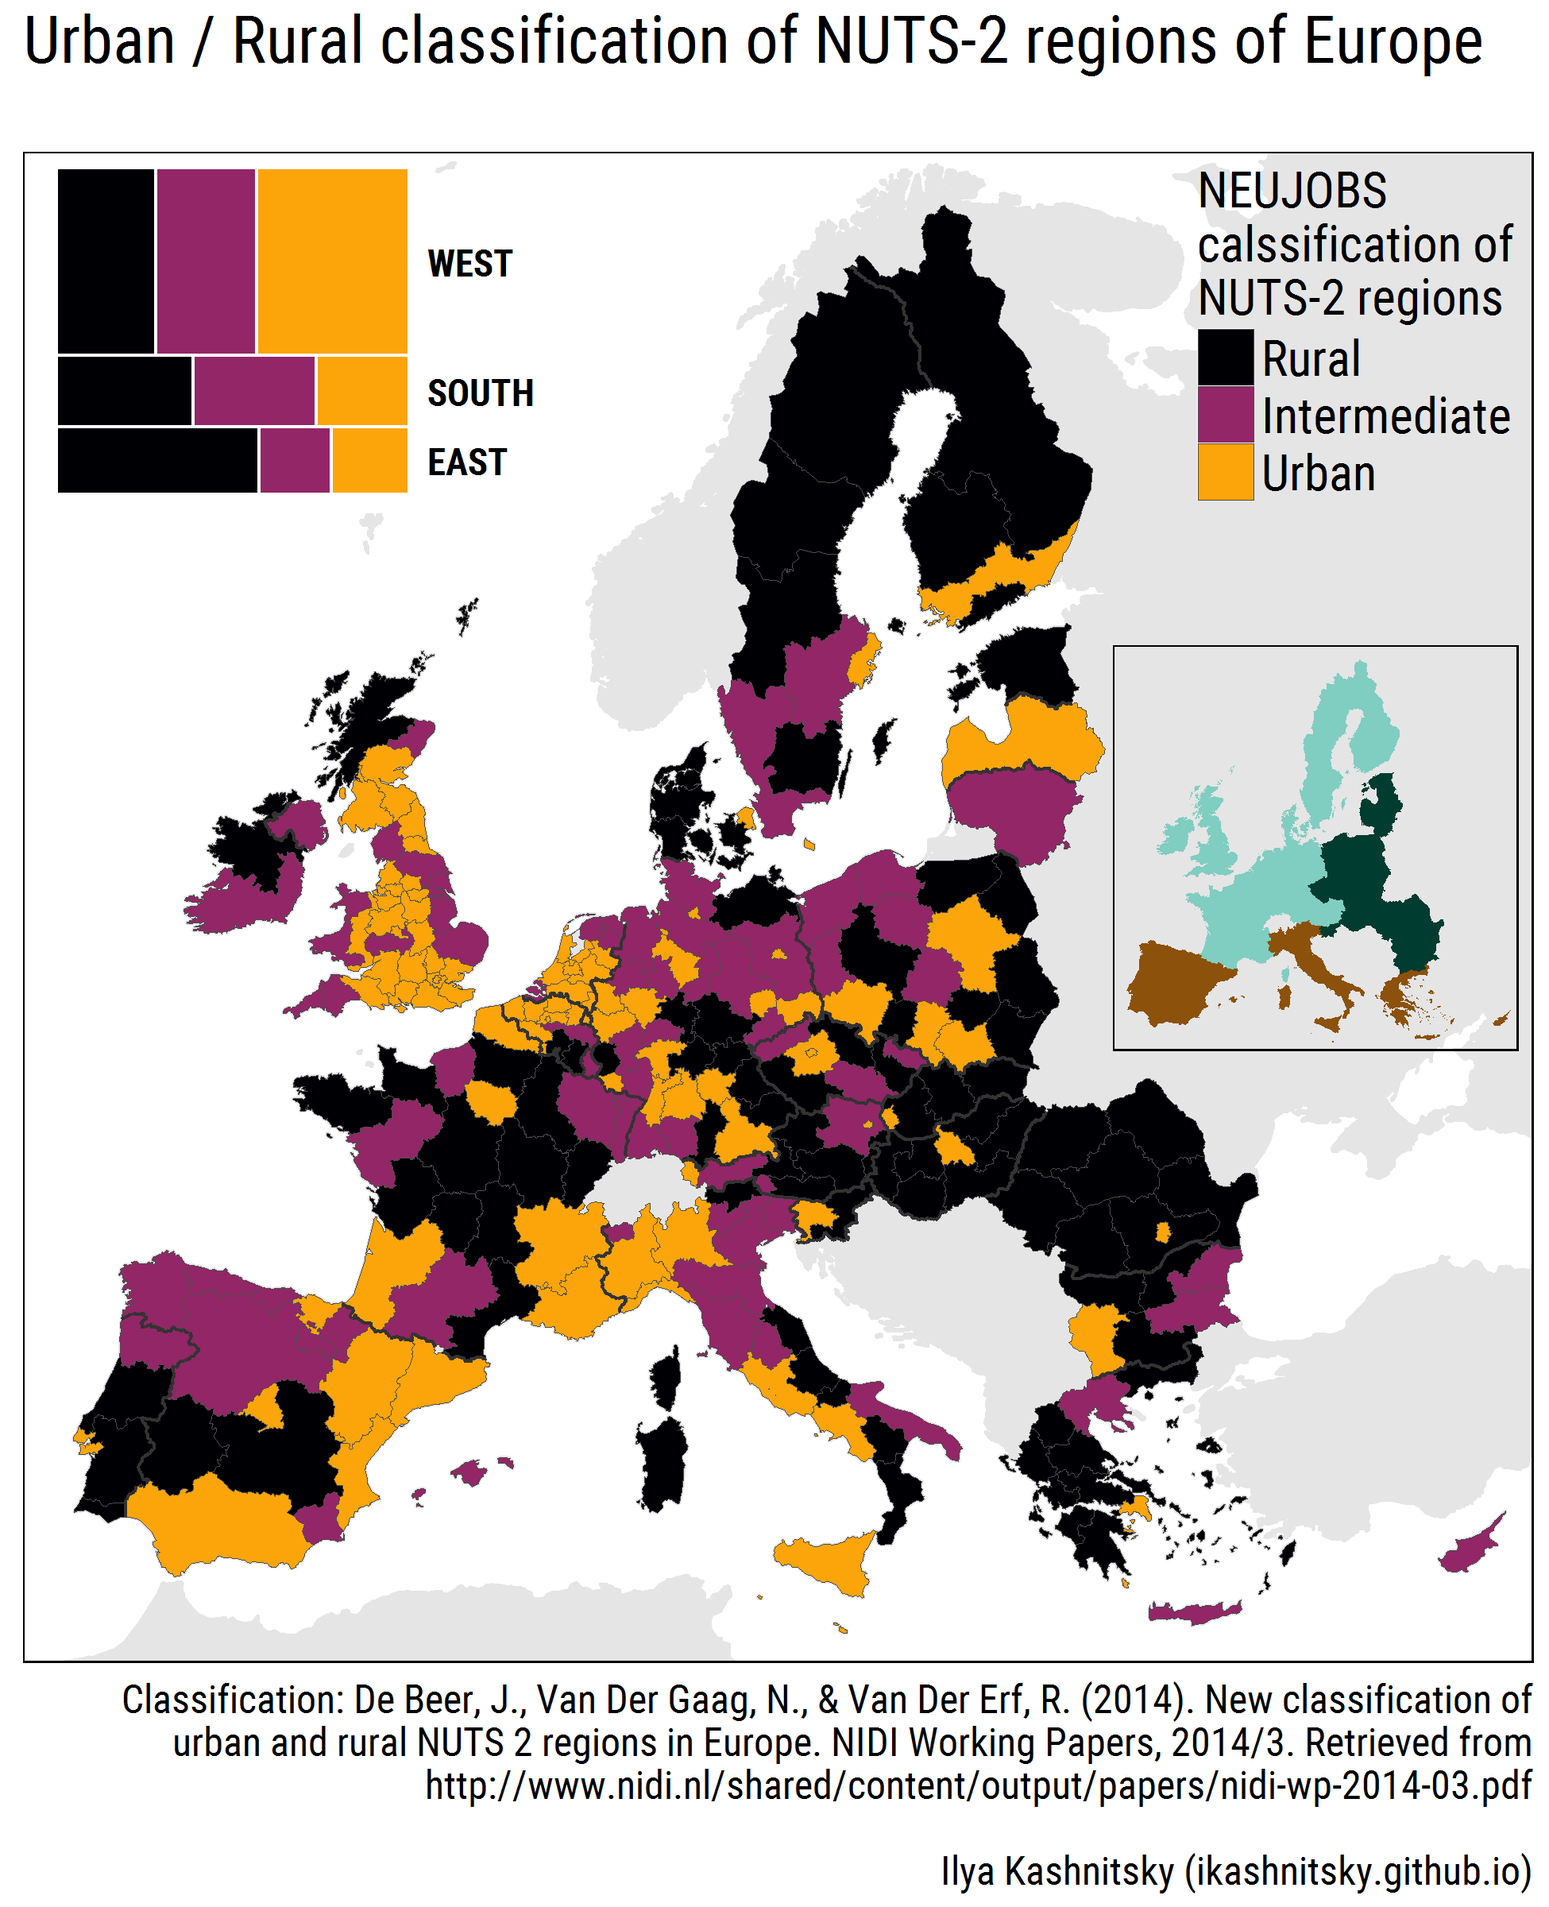
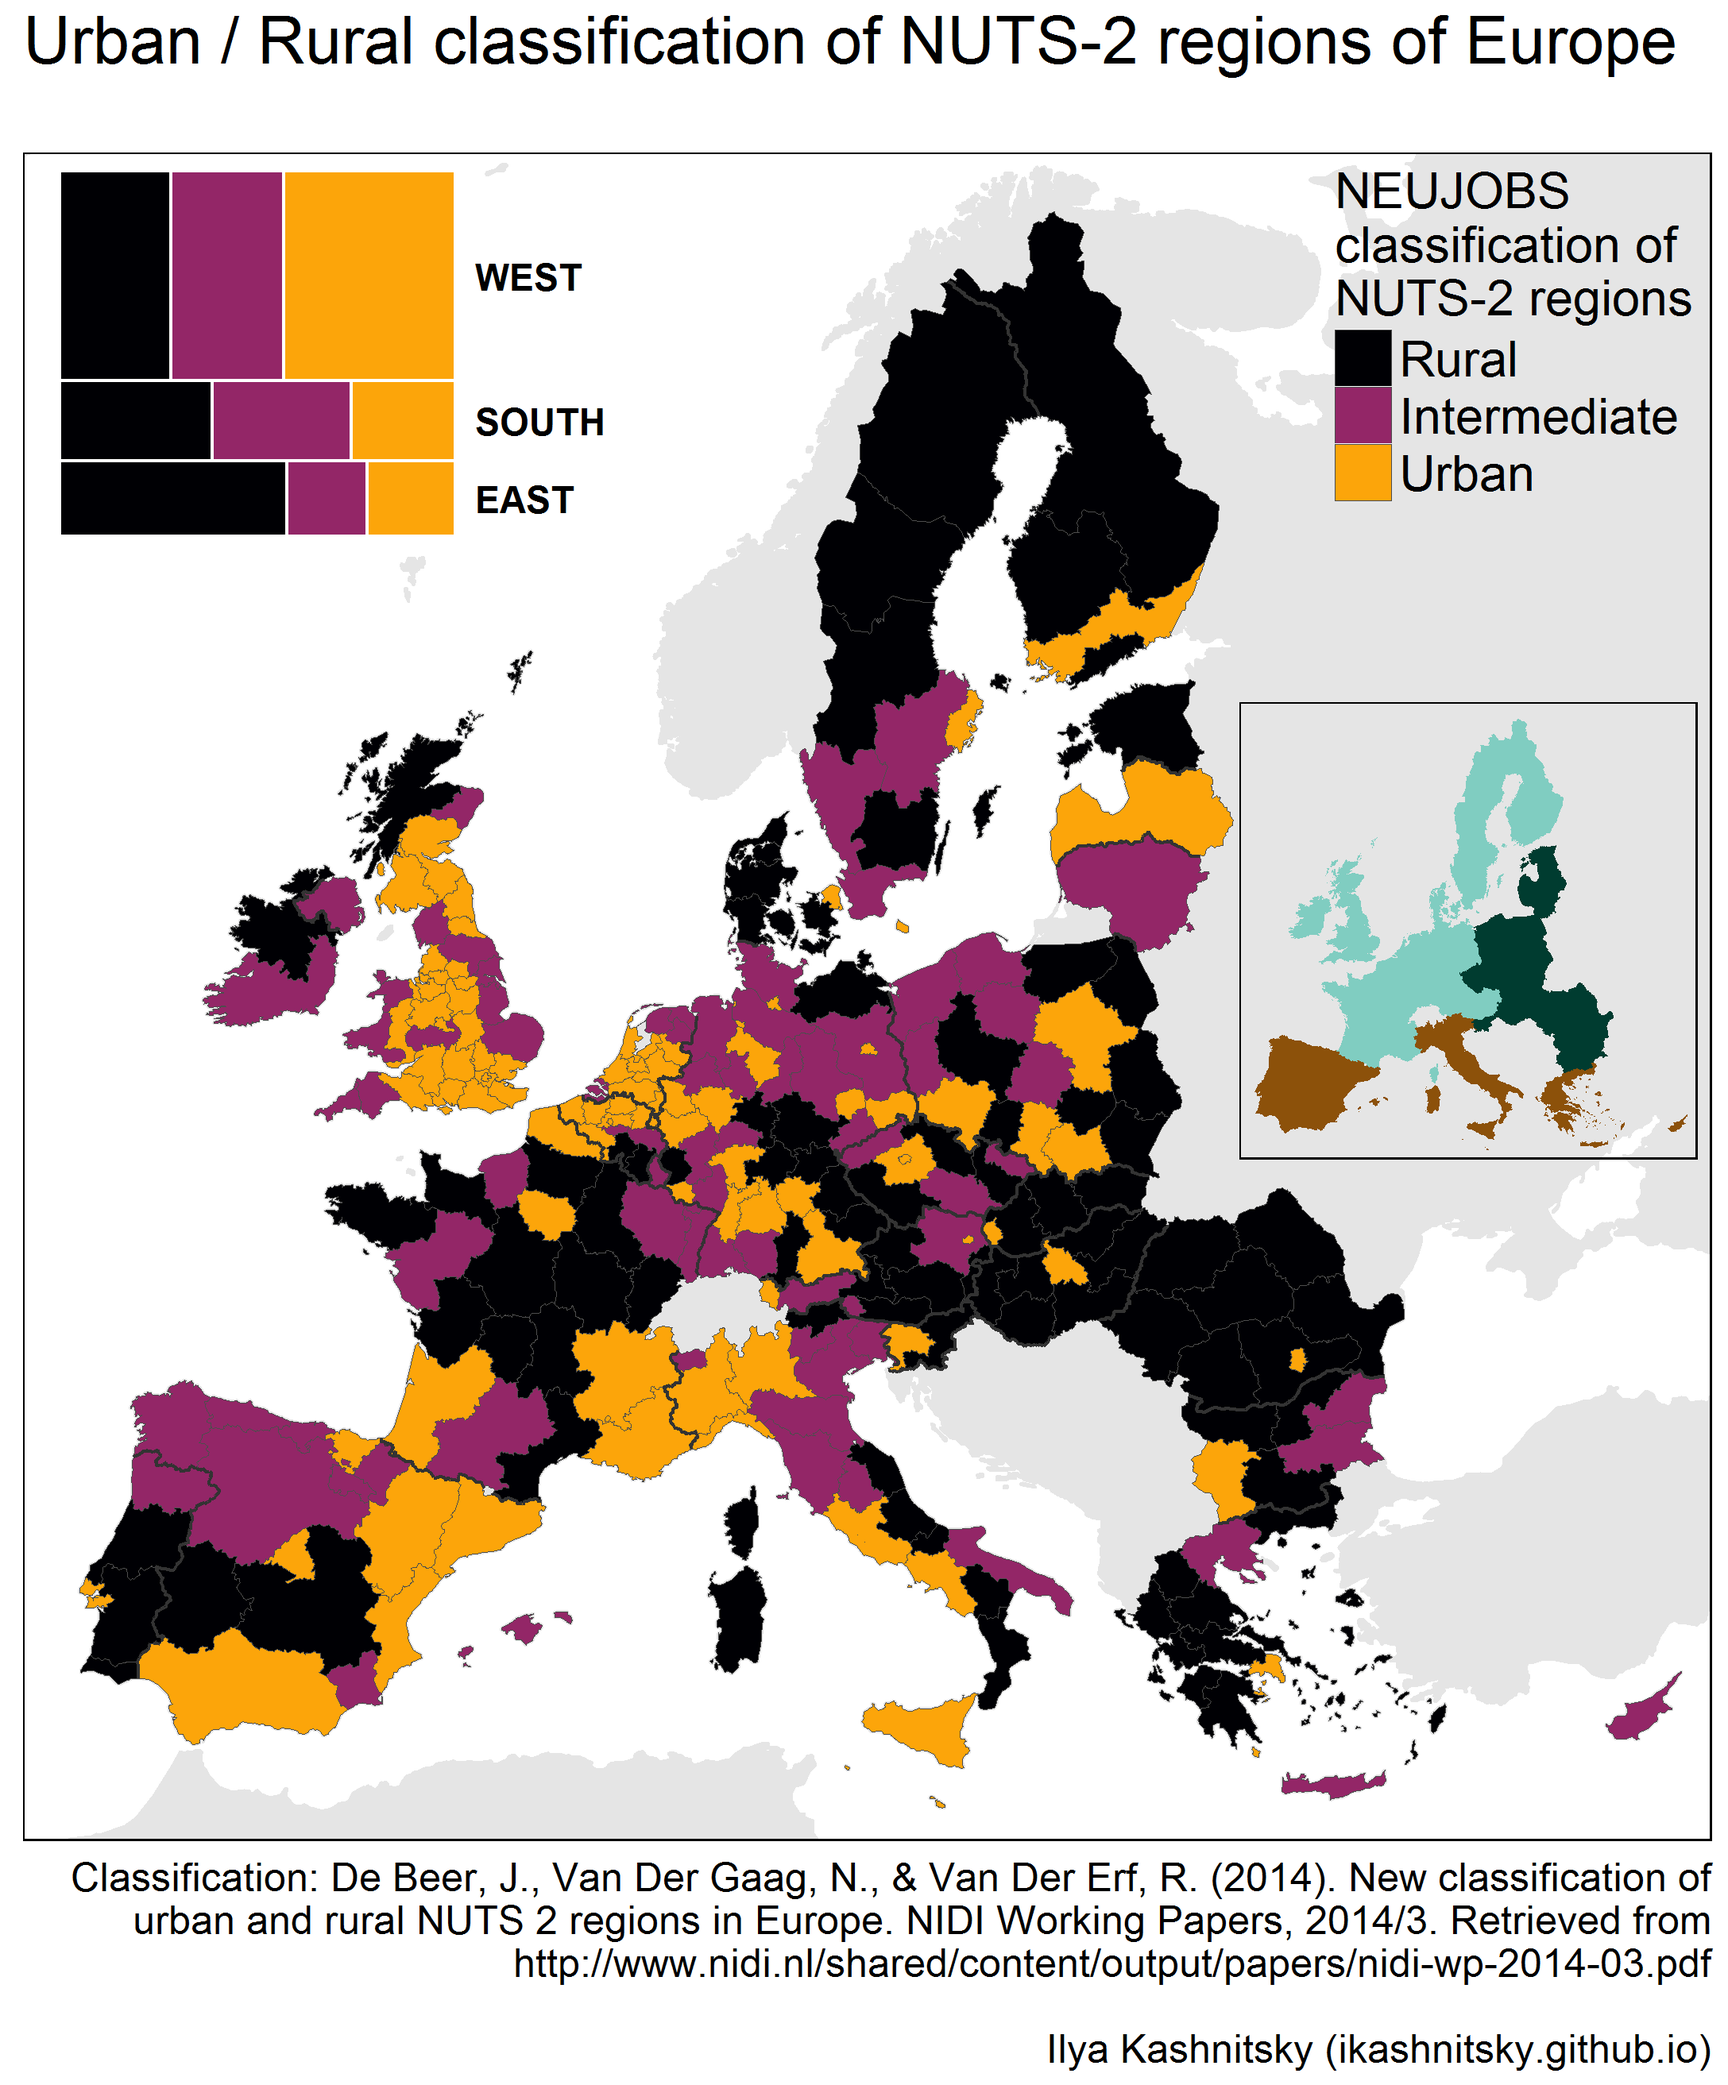
fix the typo in the map

diff --git a/_posts/2017-05-25-subplots-in-maps.md b/_posts/2017-05-25-subplots-in-maps.md
@@ -161,7 +161,7 @@ typ <-  basemap +
         geom_polygon(data = gghole(fort_map)[[2]], 
                      aes(x=long, y=lat, group=group, fill=type),
                      color="grey30",size=.1)+
-        scale_fill_viridis("NEUJOBS\ncalssification of\nNUTS-2 regions", 
+        scale_fill_viridis("NEUJOBS\nclassification of\nNUTS-2 regions", 
                            option = "B", discrete = T, end = .8)+
         geom_path(data = bord, aes(x = long, y = lat, group = group),
                   color = "grey20",size = .5) + 
